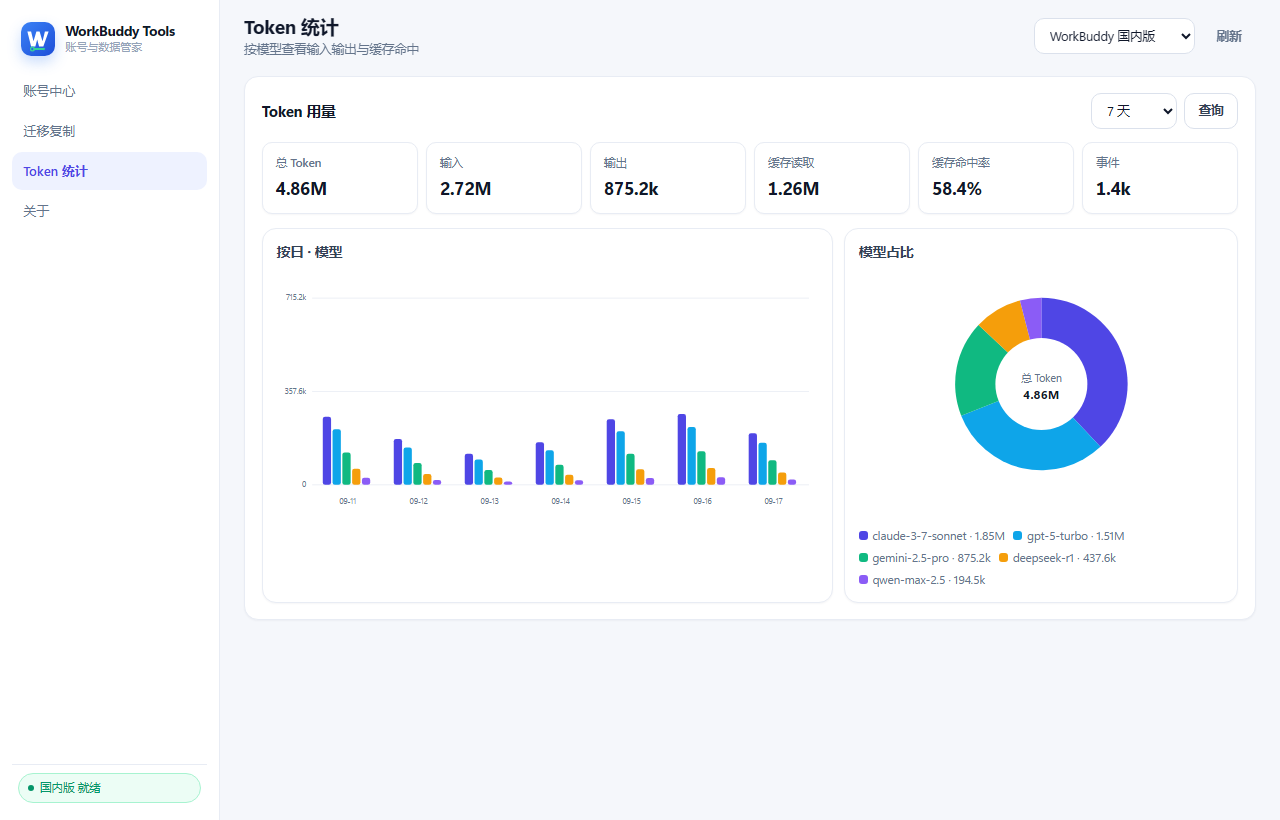
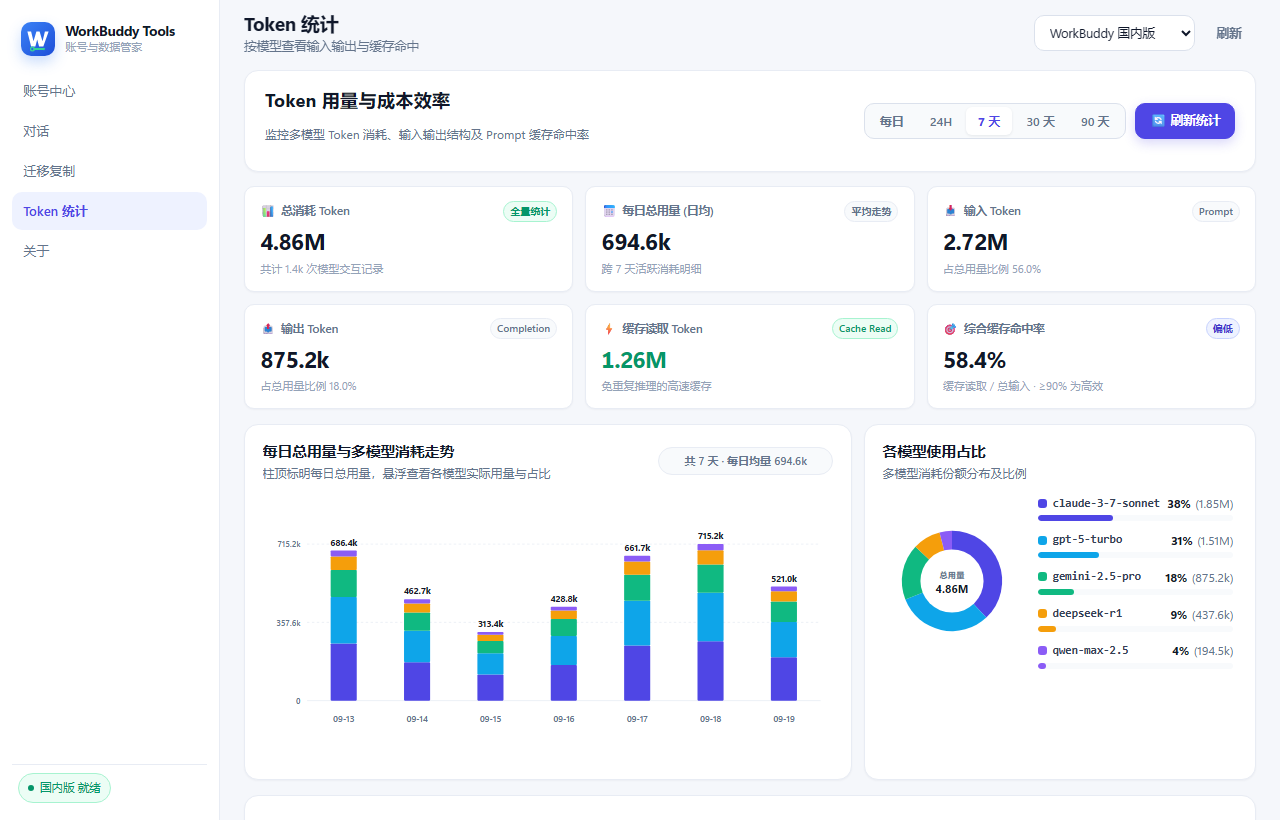
docs: add sessions tab screenshot and update v0.1.5 release checksums

diff --git a/ui/src/api.ts b/ui/src/api.ts
@@ -353,11 +353,15 @@ async function request<T>(path: string, init?: RequestInit): Promise<T> {
 }
 
 export function isDemoMode(): boolean {
+  if (typeof window !== "undefined") {
+    const p = new URLSearchParams(window.location.search);
+    if (p.get("demo") === "1" || p.get("demo") === "true") return true;
+  }
   return false;
 }
 
 export function setDemoMode(_enable: boolean): void {
-  // Release build: demo mode permanently disabled
+  // Demo mode toggled via URL parameter (?demo=1)
 }
 
 export const api = {

diff --git a/scripts/capture_screenshots.py b/scripts/capture_screenshots.py
@@ -36,6 +36,7 @@ def run():
 
     targets = [
         ("account-center.png", f"http://127.0.0.1:{port}/?demo=1&page=accounts&clean=1"),
+        ("sessions.png", f"http://127.0.0.1:{port}/?demo=1&page=sessions&clean=1"),
         ("migration.png", f"http://127.0.0.1:{port}/?demo=1&page=migrate&from=domestic&to=international&plan=1&clean=1"),
         ("token-usage.png", f"http://127.0.0.1:{port}/?demo=1&page=tokens&range=7d&clean=1"),
     ]

diff --git a/RELEASE.md b/RELEASE.md
@@ -29,6 +29,6 @@ powershell -ExecutionPolicy Bypass -File scripts/build_portable.ps1
 
 | 文件名 | 文件大小 | SHA256 校验码 |
 | :--- | :--- | :--- |
[6 lines of base64/hex data omitted]
